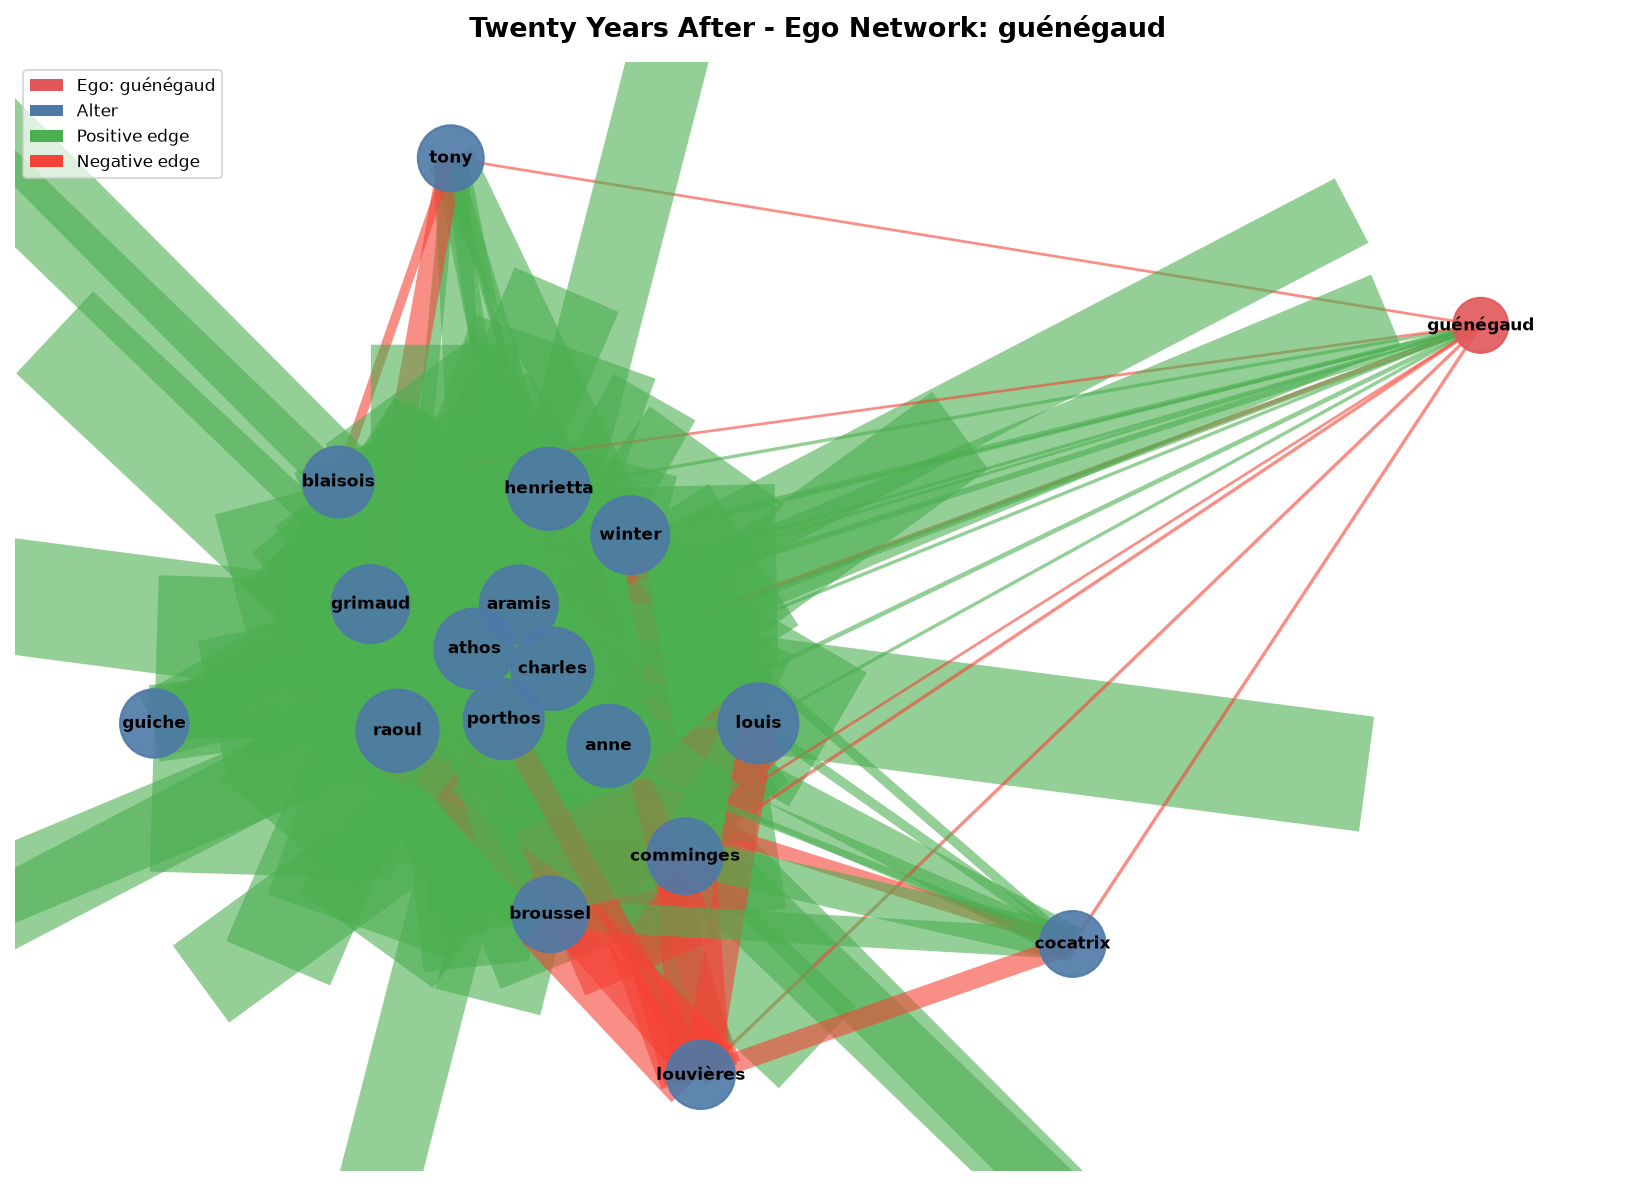
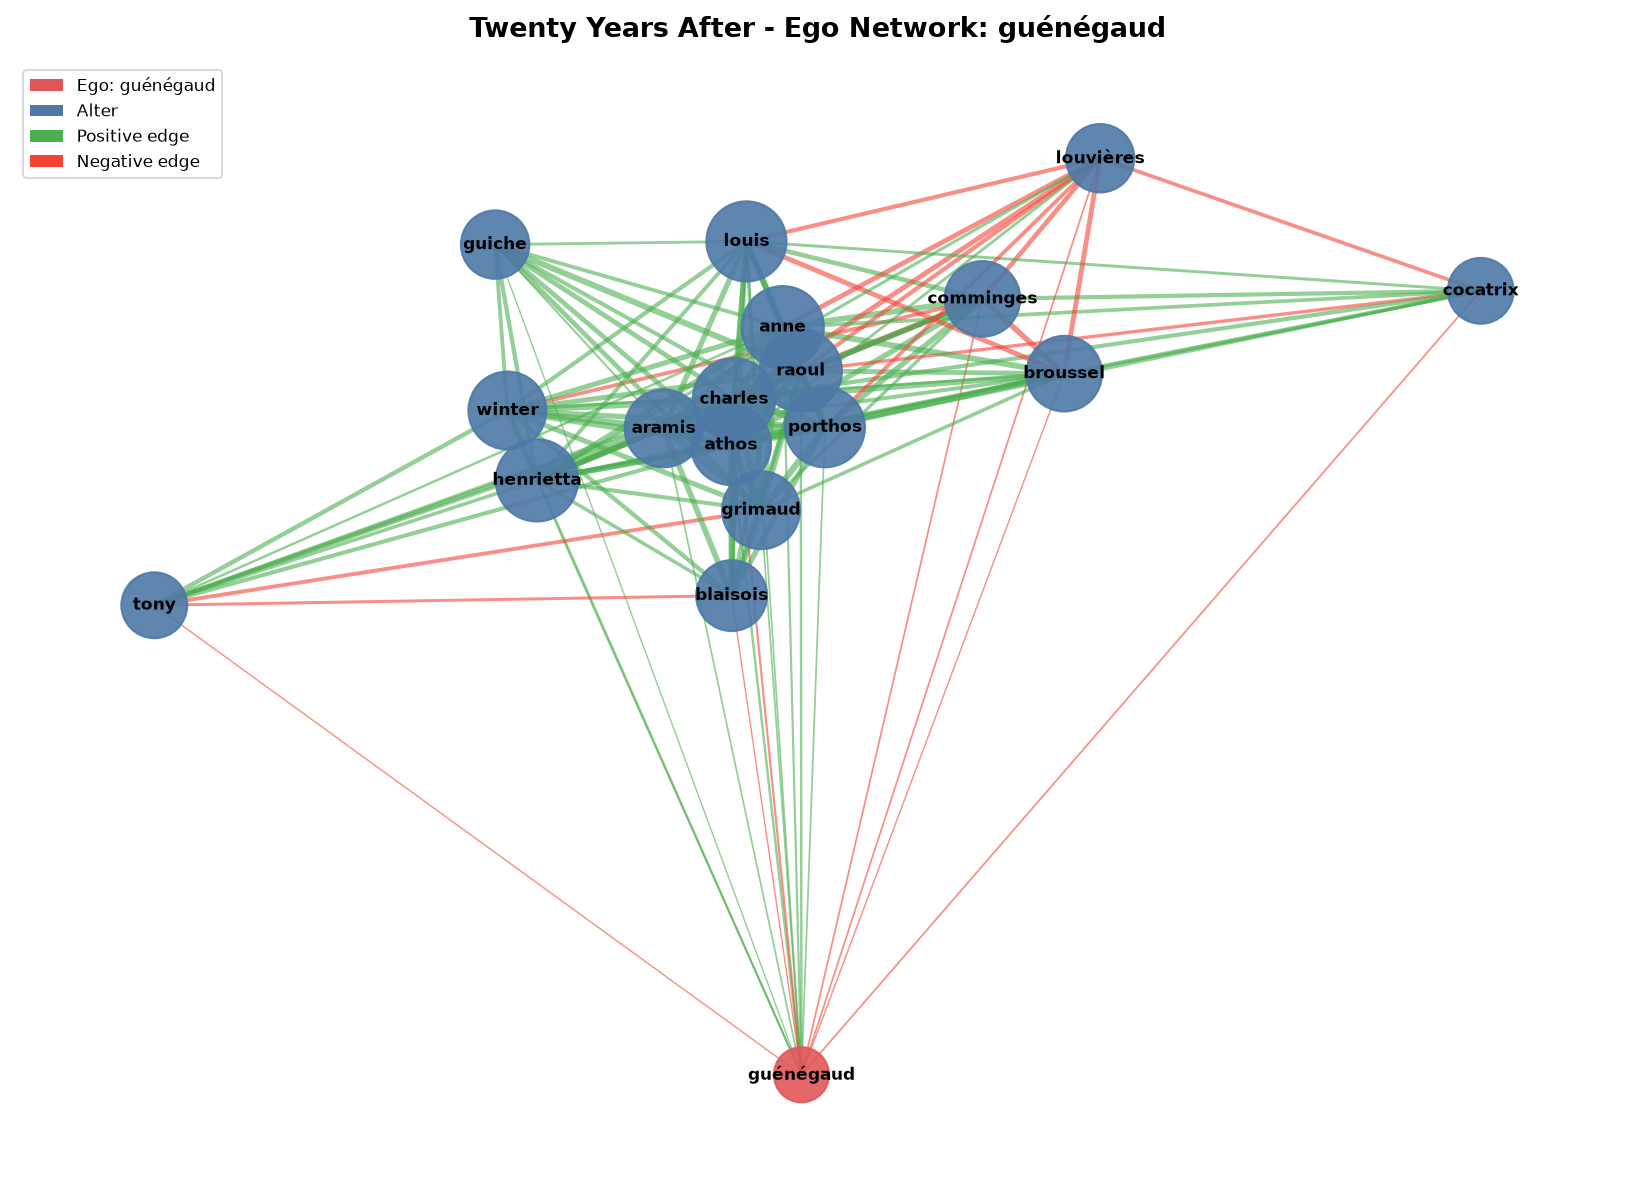
mais ajustes

diff --git a/src/analysis.py b/src/analysis.py
@@ -220,7 +220,7 @@ def centrality_metrics(G: nx.Graph) -> dict:
     Compute per-node centrality scores.
 
     Returns a dict: metric_name → list of (node, score) sorted descending.
-    Metrics: degree, betweenness, closeness, pagerank, eigenvector.
+    Metrics: degree, betweenness, closeness, eigenvector.
     """
     if G.number_of_nodes() < 2:
         return {}
@@ -232,15 +232,6 @@ def centrality_metrics(G: nx.Graph) -> dict:
         close_c = nx.closeness_centrality(G)
     except Exception:
         close_c = {n: 0.0 for n in G.nodes()}
-
-    try:
-        pr = nx.pagerank(G, weight="weight")
-    except Exception:
-        try:
-            pr = nx.pagerank(G)
-        except Exception:
-            n_nodes = G.number_of_nodes()
-            pr = {node: 1.0 / n_nodes for node in G.nodes()}
 
     try:
         eig_c = nx.eigenvector_centrality_numpy(G, weight="weight")
@@ -257,7 +248,6 @@ def centrality_metrics(G: nx.Graph) -> dict:
         "degree":      _sorted_items(degree_c),
         "betweenness": _sorted_items(between_c),
         "closeness":   _sorted_items(close_c),
-        "pagerank":    _sorted_items(pr),
         "eigenvector": _sorted_items(eig_c),
     }
 
@@ -382,7 +372,14 @@ def plot_community_graph(
     pos = nx.spring_layout(G, weight="weight", seed=seed, k=1.5)
     label_set = set(sorted(degrees, key=lambda n: degrees[n], reverse=True)[:top_n_labels])
 
-    fig, ax = plt.subplots(figsize=(14, 10))
+    # Create a figure with a main axes for the graph and a side panel for
+    # community summaries (top members). This helps readers interpret
+    # each coloured community without inspecting tiny labels.
+    fig = plt.figure(figsize=(16, 10))
+    ax = fig.add_axes([0.02, 0.02, 0.68, 0.96])  # main graph area
+    ax_text = fig.add_axes([0.72, 0.02, 0.26, 0.96])  # right-hand summary
+    ax_text.axis("off")
+
     nx.draw_networkx_edges(G, pos, ax=ax, edge_color=edge_colors,
                            width=edge_widths, alpha=0.55)
     nx.draw_networkx_nodes(G, pos, ax=ax, node_color=node_colors,
@@ -400,11 +397,29 @@ def plot_community_graph(
         mpatches.Patch(facecolor="#F44336", label="Negative edge"),
         mpatches.Patch(facecolor="#9E9E9E", label="Neutral edge"),
     ]
+
+    # Legend on the graph axes for concise keys
     ax.legend(handles=sign_handles + comm_handles,
-              fontsize=7, loc="upper left", framealpha=0.7, ncol=2)
+              fontsize=7, loc="upper left", framealpha=0.7, ncol=1)
     ax.set_title(title, fontsize=14, fontweight="bold", pad=12)
     ax.axis("off")
-    fig.tight_layout()
+
+    # Community summaries: top members by internal weighted-degree
+    summary_lines = []
+    for i, comm in enumerate(partition):
+        sub = G.subgraph(comm)
+        degs = sorted(sub.degree(weight="weight"), key=lambda x: x[1], reverse=True)
+        top_names = [n for n, _ in degs[:5]]
+        if not top_names:
+            top_text = "(no members)"
+        else:
+            top_text = ", ".join(top_names)
+        summary_lines.append(f"Community {i+1} ({len(comm)} nodes): {top_text}")
+
+    summary_text = "\n\n".join(summary_lines)
+    ax_text.text(0, 1, "Communities (top members):\n\n" + summary_text,
+                 fontsize=9, va="top", ha="left", wrap=True)
+
     fig.savefig(str(output_path), dpi=150, bbox_inches="tight")
     plt.close(fig)
 
@@ -423,7 +438,7 @@ def plot_centrality_ranking(
     Horizontal bar chart of the top-*top_n* characters ranked by *metric*
     centrality.  Bar colour reflects that character's mean edge sentiment.
 
-    metric: 'degree' | 'betweenness' | 'closeness' | 'pagerank' | 'eigenvector'
+    metric: 'degree' | 'betweenness' | 'closeness' | 'eigenvector'
     """
     if G.number_of_nodes() < 2:
         return
@@ -585,7 +600,7 @@ def plot_ego_network(
                    for n in ego.nodes()]
     edges = list(ego.edges(data=True))
     edge_colors = _edge_sign_colors(ego, edges)
-    edge_widths  = [1.0 + ego[u][v].get("weight", 1) * 0.3 for u, v, _ in edges]
+    edge_widths = [0.4 + math.log1p(ego[u][v].get("weight", 1)) * 0.4 for u, v, _ in edges]
 
     pos = nx.spring_layout(ego, weight="weight", seed=seed, k=2.0)
 

diff --git a/main.py b/main.py
@@ -168,7 +168,7 @@ def process_book(book_key: str, filename: str) -> list[dict]:
                 title=f"{book_title} — Community Graph (full book)",
                 output_path=pdir / "community_graph.png",
             )
-            for met in ("betweenness", "pagerank", "degree"):
+            for met in ("betweenness", "degree"):
                 plot_centrality_ranking(
                     G_plot,
                     title=f"{book_title} — Top Characters by {met.capitalize()}",

diff --git a/RESULTS.md b/RESULTS.md
@@ -115,6 +115,11 @@ The narrative opens at moderate tension (~0.49), plunges in **windows 10–14** 
 
 ![Community graph — Book 1](outputs/plots/book_1/community_graph.png)
 
+**Community summary (top members)** — top-5 by internal weighted degree per community:
+- Community 1 (25 nodes): Athos, Aramis, Porthos, King, Planchet
+- Community 2 (25 nodes): Louis, Richelieu, Anne, Tréville, Bonacieux
+- Community 3 (21 nodes): Milady, Felton, Winter, Charles, Buckingham
+
 **Sentiment heatmap** — top-25 characters · RdYlGn (−1 → +1) · white = no direct edge
 
 ![Sentiment heatmap — Book 1](outputs/plots/book_1/sentiment_heatmap.png)
@@ -125,9 +130,9 @@ The narrative opens at moderate tension (~0.49), plunges in **windows 10–14** 
 
 **Centrality rankings** (top-15 · bar colour = mean sentiment of incident edges)
 
-| Betweenness | PageRank | Degree |
-|:---:|:---:|:---:|
-| ![Betweenness — Book 1](outputs/plots/book_1/centrality_betweenness.png) | ![PageRank — Book 1](outputs/plots/book_1/centrality_pagerank.png) | ![Degree — Book 1](outputs/plots/book_1/centrality_degree.png) |
+| Betweenness | Degree |
+|:---:|:---:|
+| ![Betweenness — Book 1](outputs/plots/book_1/centrality_betweenness.png) | ![Degree — Book 1](outputs/plots/book_1/centrality_degree.png) |
 
 **Degree distribution** — log-log P(k) · red dashed = power-law fit
 
@@ -189,6 +194,12 @@ reunion  execution/Mordaunt  Fronde  close
 
 ![Community graph — Book 2](outputs/plots/book_2/community_graph.png)
 
+**Community summary (top members)** — top-5 by internal weighted degree per community:
+- Community 1 (27 nodes): Charles, Athos, Aramis, Porthos, Mordaunt
+- Community 2 (39 nodes): Raoul, Marie, Beaufort, Chevreuse, Ramee
+- Community 3 (45 nodes): Mazarin, Anne, Louis, Broussel, Conti
+- Community 4 (3 nodes): Châtillon, Flamarens, Bouillon
+
 **Sentiment heatmap** — top-25 characters · RdYlGn (−1 → +1) · white = no direct edge
 
 ![Sentiment heatmap — Book 2](outputs/plots/book_2/sentiment_heatmap.png)
@@ -199,9 +210,9 @@ reunion  execution/Mordaunt  Fronde  close
 
 **Centrality rankings** (top-15 · bar colour = mean sentiment of incident edges)
 
-| Betweenness | PageRank | Degree |
-|:---:|:---:|:---:|
-| ![Betweenness — Book 2](outputs/plots/book_2/centrality_betweenness.png) | ![PageRank — Book 2](outputs/plots/book_2/centrality_pagerank.png) | ![Degree — Book 2](outputs/plots/book_2/centrality_degree.png) |
+| Betweenness | Degree |
+|:---:|:---:|
+| ![Betweenness — Book 2](outputs/plots/book_2/centrality_betweenness.png) | ![Degree — Book 2](outputs/plots/book_2/centrality_degree.png) |
 
 **Degree distribution** — log-log P(k) · red dashed = power-law fit
 
@@ -262,6 +273,12 @@ opening  Restoration dip  Mazarin dead
 
 ![Community graph — Book 3](outputs/plots/book_3/community_graph.png)
 
+**Community summary (top members)** — top-5 by internal weighted degree per community:
+- Community 1 (34 nodes): Louis, Mazarin, Anne, Raoul, Bernouin
+- Community 2 (16 nodes): Agnan, Porthos, Aramis, Mousqueton, Furet
+- Community 3 (17 nodes): Fouquet, Colbert, Gourville, Pelisson, Lyodot
+- Community 4 (19 nodes): Charles, Athos, Monk, Planchet, Parry
+
 **Sentiment heatmap** — top-25 characters · RdYlGn (−1 → +1) · white = no direct edge
 
 ![Sentiment heatmap — Book 3](outputs/plots/book_3/sentiment_heatmap.png)
@@ -272,9 +289,9 @@ opening  Restoration dip  Mazarin dead
 
 **Centrality rankings** (top-15 · bar colour = mean sentiment of incident edges)
 
-| Betweenness | PageRank | Degree |
-|:---:|:---:|:---:|
-| ![Betweenness — Book 3](outputs/plots/book_3/centrality_betweenness.png) | ![PageRank — Book 3](outputs/plots/book_3/centrality_pagerank.png) | ![Degree — Book 3](outputs/plots/book_3/centrality_degree.png) |
+| Betweenness | Degree |
+|:---:|:---:|
+| ![Betweenness — Book 3](outputs/plots/book_3/centrality_betweenness.png) | ![Degree — Book 3](outputs/plots/book_3/centrality_degree.png) |
 
 **Degree distribution** — log-log P(k) · red dashed = power-law fit
 
@@ -335,6 +352,11 @@ This is the most positive book in the series. It opens high (~0.75–0.87) durin
 
 ![Community graph — Book 4](outputs/plots/book_4/community_graph.png)
 
+**Community summary (top members)** — top-5 by internal weighted degree per community:
+- Community 1 (15 nodes): Montalais, Vallière, Louise, Saint-Aignan, Malicorne
+- Community 2 (21 nodes): Aramis, Fouquet, Baisemeaux, Colbert, Mazarin
+- Community 3 (21 nodes): Louis, Guiche, Raoul, Buckingham, Anne
+
 **Sentiment heatmap** — top-25 characters · RdYlGn (−1 → +1) · white = no direct edge
 
 ![Sentiment heatmap — Book 4](outputs/plots/book_4/sentiment_heatmap.png)
@@ -345,9 +367,9 @@ This is the most positive book in the series. It opens high (~0.75–0.87) durin
 
 **Centrality rankings** (top-15 · bar colour = mean sentiment of incident edges)
 
-| Betweenness | PageRank | Degree |
-|:---:|:---:|:---:|
-| ![Betweenness — Book 4](outputs/plots/book_4/centrality_betweenness.png) | ![PageRank — Book 4](outputs/plots/book_4/centrality_pagerank.png) | ![Degree — Book 4](outputs/plots/book_4/centrality_degree.png) |
+| Betweenness | Degree |
+|:---:|:---:|
+| ![Betweenness — Book 4](outputs/plots/book_4/centrality_betweenness.png) | ![Degree — Book 4](outputs/plots/book_4/centrality_degree.png) |
 
 **Degree distribution** — log-log P(k) · red dashed = power-law fit
 
@@ -407,6 +429,12 @@ Starts warmly (~0.68–0.86, windows 1–10), dips to its lowest at **window 23*
 
 ![Community graph — Book 5](outputs/plots/book_5/community_graph.png)
 
+**Community summary (top members)** — top-5 by internal weighted degree per community:
+- Community 1 (6 nodes): Porthos, Planchet, Vallon, Truchen, Celestin
+- Community 2 (22 nodes): Louis, Vallière, Raoul, Guiche, Saint-Aignan
+- Community 3 (7 nodes): Grafton, Stewart, Buckingham, Mary, Charles
+- Community 4 (24 nodes): Fouquet, Aramis, Anne, Colbert, Vanel
+
 **Sentiment heatmap** — top-25 characters · RdYlGn (−1 → +1) · white = no direct edge
 
 ![Sentiment heatmap — Book 5](outputs/plots/book_5/sentiment_heatmap.png)
@@ -417,9 +445,9 @@ Starts warmly (~0.68–0.86, windows 1–10), dips to its lowest at **window 23*
 
 **Centrality rankings** (top-15 · bar colour = mean sentiment of incident edges)
 
-| Betweenness | PageRank | Degree |
-|:---:|:---:|:---:|
-| ![Betweenness — Book 5](outputs/plots/book_5/centrality_betweenness.png) | ![PageRank — Book 5](outputs/plots/book_5/centrality_pagerank.png) | ![Degree — Book 5](outputs/plots/book_5/centrality_degree.png) |
+| Betweenness | Degree |
+|:---:|:---:|
+| ![Betweenness — Book 5](outputs/plots/book_5/centrality_betweenness.png) | ![Degree — Book 5](outputs/plots/book_5/centrality_degree.png) |
 
 **Degree distribution** — log-log P(k) · red dashed = power-law fit
 
@@ -484,6 +512,13 @@ The absolute minimum, **−0.116** at window 43, corresponds to the chapters cov
 
 ![Community graph — Book 6](outputs/plots/book_6/community_graph.png)
 
+**Community summary (top members)** — top-5 by internal weighted degree per community:
+- Community 1 (22 nodes): Louis, Fouquet, Colbert, Anne, Vallière
+- Community 2 (18 nodes): Aramis, Porthos, Baisemeaux, Biscarrat, Marchiali
+- Community 3 (10 nodes): Moliere, Fontaine, Pelisson, Percerin, Loret
+- Community 4 (17 nodes): Raoul, Athos, Beaufort, Grimaud, Montalais
+- Community 5 (6 nodes): Charles, Keroualle, Lorraine, Gwyn, Zunga
+
 **Sentiment heatmap** — top-25 characters · RdYlGn (−1 → +1) · white = no direct edge
 
 ![Sentiment heatmap — Book 6](outputs/plots/book_6/sentiment_heatmap.png)
@@ -494,9 +529,9 @@ The absolute minimum, **−0.116** at window 43, corresponds to the chapters cov
 
 **Centrality rankings** (top-15 · bar colour = mean sentiment of incident edges)
 
-| Betweenness | PageRank | Degree |
-|:---:|:---:|:---:|
-| ![Betweenness — Book 6](outputs/plots/book_6/centrality_betweenness.png) | ![PageRank — Book 6](outputs/plots/book_6/centrality_pagerank.png) | ![Degree — Book 6](outputs/plots/book_6/centrality_degree.png) |
+| Betweenness | Degree |
+|:---:|:---:|
+| ![Betweenness — Book 6](outputs/plots/book_6/centrality_betweenness.png) | ![Degree — Book 6](outputs/plots/book_6/centrality_degree.png) |
 
 **Degree distribution** — log-log P(k) · red dashed = power-law fit
 
@@ -628,10 +663,9 @@ The following centrality measures are computed on each window's graph and surfac
 | **Degree centrality** | Normalised fraction of nodes a character is connected to | Raw social reach — how many distinct characters someone interacts with |
 | **Betweenness centrality** | Fraction of shortest paths that pass through a node | Narrative brokers — characters who bridge factions or storylines |
 | **Closeness centrality** | Inverse mean shortest path to all other nodes | How quickly information/events propagate from a character |
-| **PageRank** | Eigenvector-style random walk with damping | Prestige — weighted by the importance of a character's connections |
 | **Eigenvector centrality** | Centrality proportional to the centrality of neighbours | Influence within the core — proximity to other highly central characters |
 
-Betweenness and PageRank are weighted by `weight` (co-occurrence count); closeness uses the unweighted topology.
+Betweenness and eigenvector are weighted by `weight` (co-occurrence count); closeness uses the unweighted topology.
 
 ### Network diameter
 
@@ -671,8 +705,7 @@ The five centrality measures tell consistent but complementary stories:
 
 **Degree vs. betweenness divergence.** In the final window of each book the character with the highest *degree* (most co-occurrence partners) is not always the same as the highest *betweenness* (best bridge between factions). This divergence is narratively meaningful: Louis XIV saturates Book 4's degree ranking because nearly every court scene includes him, but in the *final* window of Book 1 Richelieu tops betweenness — meaning the last chapters hinge on him as a structural pivot between the Musketeers' world and the court's, even though his total co-occurrence count is lower than Athos or Aramis.
 
-**PageRank as prestige indicator.** PageRank is high for characters who interact with other well-connected characters. In Books 1–2 the four musketeers form a tight prestige cluster — each boosts the others' scores. From Book 3 onwards Louis XIV's PageRank detaches from the musketeers': he is connected to everyone of importance (Fouquet, Colbert, Mazarin, the queen, the nobles), whereas the musketeers' network contracts around a smaller inner circle.
-
+**Eigenvector centrality and the core.** Eigenvector centrality is the most conservative measure — it rewards being embedded deep inside the densest, most mutually-connected subgraph. In every book this highlights the four musketeers' inner clique (Books 1–2) or the Louis–Fouquet–Colbert triumvirate (Books 4–6). Characters like d'Artagnan, who bridges many factions but lives at their periphery, score lower here than on betweenness — illustrating the distinction between *brokers* and *core members*.
 **Eigenvector centrality and the core.** Eigenvector centrality is the most conservative measure — it rewards being embedded deep inside the densest, most mutually-connected subgraph. In every book this highlights the four musketeers' inner clique (Books 1–2) or the Louis–Fouquet–Colbert triumvirate (Books 4–6). Characters like d'Artagnan, who bridges many factions but lives at their periphery, score lower here than on betweenness — illustrating the distinction between *brokers* and *core members*.
 
 **Closeness and narrative pacing.** Closeness centrality (how quickly a node can reach any other) tracks well with narrative agency: characters with high closeness are those whose actions have immediate ripple effects across the cast. In Book 6, closeness scores compress — the network has fewer nodes, and Aramis's and Louis's short paths to every other character reflect the plot's funnel: all storylines converge on the Iron Mask crisis.
@@ -764,15 +797,7 @@ The tables below allow direct visual comparison of each plot type across all six
 |:---:|:---:|:---:|
 | ![](outputs/plots/book_4/centrality_betweenness.png) | ![](outputs/plots/book_5/centrality_betweenness.png) | ![](outputs/plots/book_6/centrality_betweenness.png) |
 
-#### PageRank centrality rankings
 
-| Book 1 | Book 2 | Book 3 |
-|:---:|:---:|:---:|
-| ![](outputs/plots/book_1/centrality_pagerank.png) | ![](outputs/plots/book_2/centrality_pagerank.png) | ![](outputs/plots/book_3/centrality_pagerank.png) |
-
-| Book 4 | Book 5 | Book 6 |
-|:---:|:---:|:---:|
-| ![](outputs/plots/book_4/centrality_pagerank.png) | ![](outputs/plots/book_5/centrality_pagerank.png) | ![](outputs/plots/book_6/centrality_pagerank.png) |
 
 #### Degree distributions
 
